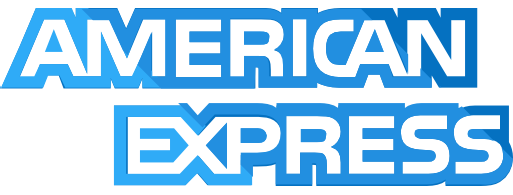
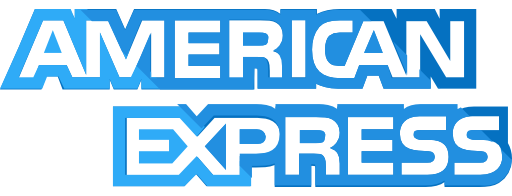
final changes on payment card

diff --git a/js/PaymentCard.js b/js/PaymentCard.js
@@ -74,7 +74,7 @@ cardNumberInput.addEventListener("keyup", function (e) {
             switch (firstDigitValue) {
                 case 3:
                     operatorLogo.src = AmericanExpressLogoPath;
-                    operatorLogo.style.width = '40px';
+                    operatorLogo.style.width = '100px';
                     operatorLogo.style.height = '40px';
                     break;
 
@@ -86,7 +86,7 @@ cardNumberInput.addEventListener("keyup", function (e) {
 
                 case 5:
                     operatorLogo.src = MasterCardLogoPath;
-                    operatorLogo.style.width = '40px';
+                    operatorLogo.style.width = '60px';
                     operatorLogo.style.height = '40px';
                     break;
 

diff --git a/client/pop_ups.php b/client/pop_ups.php
@@ -7,9 +7,9 @@
                 <form>
                     <legend>
                         <span>Login</span>
-                        <button onclick="showLogin()">
-                            <img src="../res/img/close.png">
-                        </button>
+                        <a onclick="showLogin()">
+                            <img src="../res/img/close.png"  style="cursor: pointer;">
+                        </a>
                     </legend>
                     <div class="field">
                         <label>Username</label>
@@ -34,9 +34,9 @@
                 <form>
                     <legend>
                         <span>Register</span>
-                        <button onclick="showRegistration()">
-                            <img src="../res/img/close.png">
-                        </button>
+                        <a onclick="showRegistration()">
+                            <img src="../res/img/close.png" style="cursor: pointer;">
+                        </a>
                     </legend>
                     <div class="field">
                         <label>Username</label>
